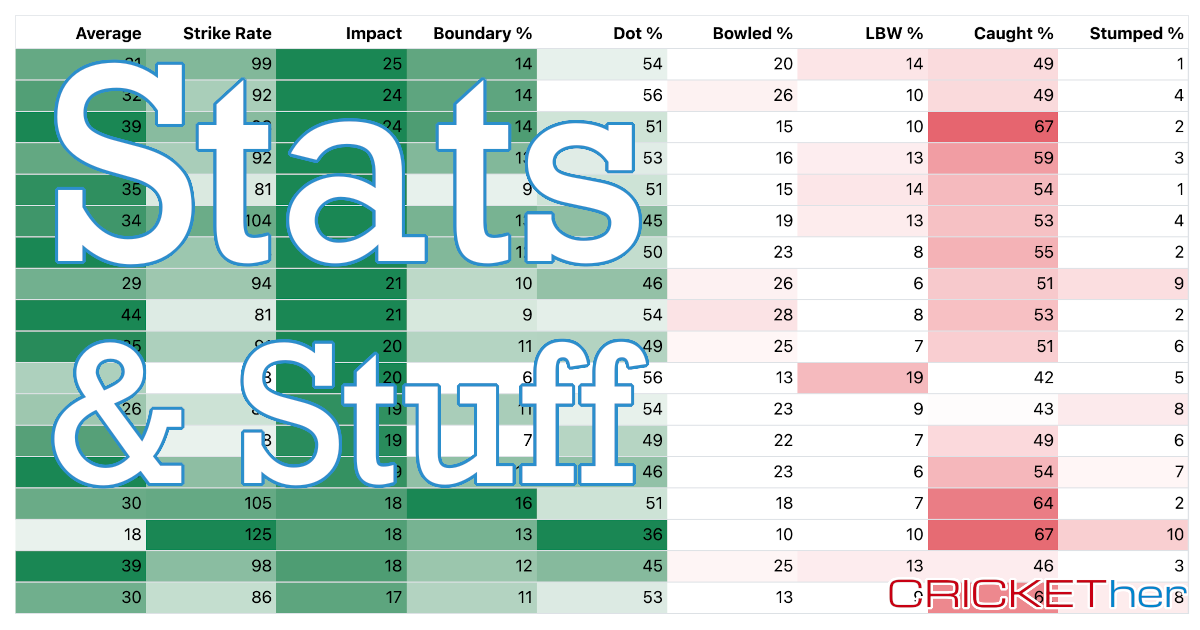
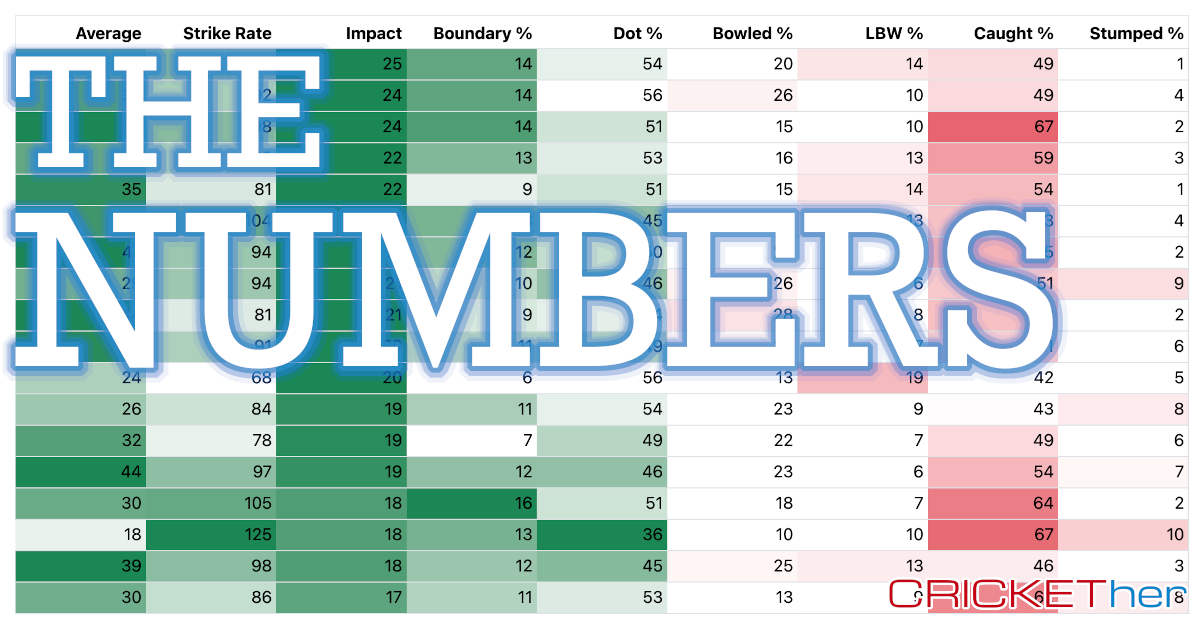
The Numbers

Changed region(s): [[0.0, 0.0603, 0.8942, 0.7841]]

diff --git a/index.html b/index.html
@@ -2,9 +2,9 @@
     <head>
         <meta name="viewport" content="width=device-width, initial-scale=1.0">
         <link rel="icon" type="image/png" href="favicon.png">
-        <title>CRICKETher: Women's Cricket Stats</title>
-        <meta name="description" content="CRICKETher: Women's Cricket Stats - International & Domestic Player & Team Stats">
-        <meta property="og:description" content="CRICKETher: Women's Cricket Stats - International & Domestic Player & Team Stats">
+        <title>CRICKETher: The Numbers - Women's Cricket Stats</title>
+        <meta name="description" content="CRICKETher: The Numbers - Women's Cricket Stats">
+        <meta property="og:description" content="CRICKETher: The Numbers - Women's Cricket Stats">
         <meta property="og:image" content="/preview.png">
         <link href="https://cdn.jsdelivr.net/npm/bootstrap@5.3.3/dist/css/bootstrap.min.css" rel="stylesheet" integrity="sha384-QWTKZyjpPEjISv5WaRU9OFeRpok6YctnYmDr5pNlyT2bRjXh0JMhjY6hW+ALEwIH" crossorigin="anonymous">
         <script src="https://cdn.jsdelivr.net/npm/bootstrap@5.0.2/dist/js/bootstrap.bundle.min.js" integrity="sha384-MrcW6ZMFYlzcLA8Nl+NtUVF0sA7MsXsP1UyJoMp4YLEuNSfAP+JcXn/tWtIaxVXM" crossorigin="anonymous"></script>
@@ -31,7 +31,7 @@
     <body class="m-1 p-1">
         <nav class="navbar navbar-dark bg-secondary p-2">
             <a class="navbar-brand" href="#">
-                🏏&nbsp;CRICKETher: Women's Cricket Stats
+                🏏&nbsp;CRICKETher: The Numbers - Women's Cricket Stats
             </a>
         </nav>
         <div class="p-2 my-2 bg-light">
